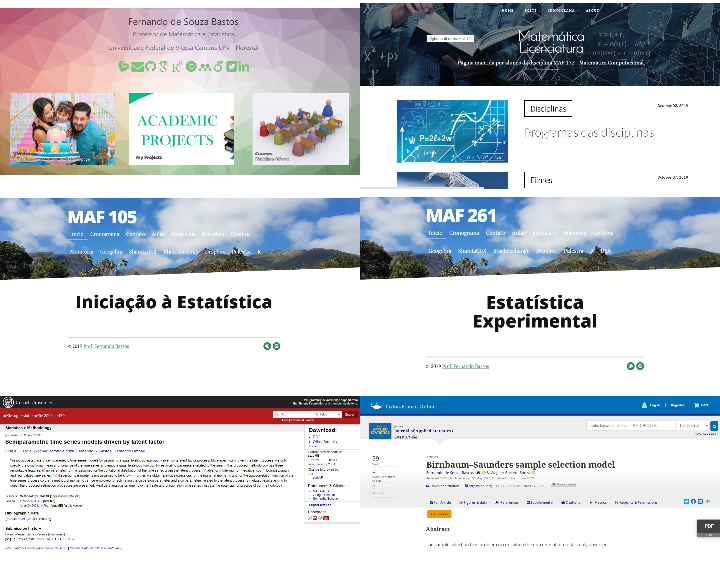
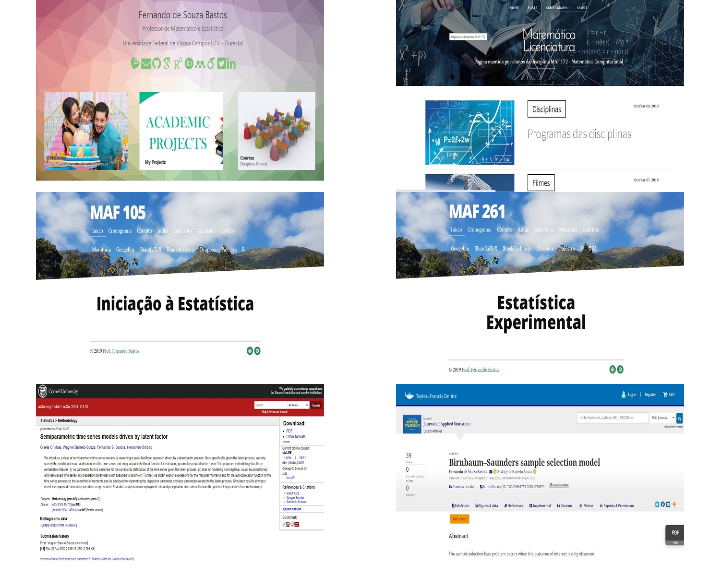
Dashboards

diff --git a/slides/ColTiradentes.html b/slides/ColTiradentes.html
@@ -236,7 +236,20 @@ Apesar de ser simples utilizar o R diretamente do seu console raiz, existe um co
 &lt;img src="figures/unnamed-chunk-14-1.png" width="80%" style="display: block; margin: auto;" /&gt;
 ---
 
+&lt;table&gt;
+&lt;tr&gt;&lt;td&gt;&lt;a href="https:fsbmat-ufv.github.io"&gt;&lt;img width="100%" src="https://raw.githack.com/fsbmat-ufv/ColegioTiradentes/master/img/PessoalPage.jpg"&gt;&lt;/a&gt;&lt;/td&gt;
+    &lt;td&gt;&lt;a href="https:maf172.github.io"&gt;&lt;img width="100%" src="https://raw.githack.com/fsbmat-ufv/ColegioTiradentes/master/img/maf172.jpg"&gt;&lt;/a&gt;&lt;/td&gt;
+&lt;/tr&gt;
 
+&lt;tr&gt;&lt;td&gt;&lt;a href="https:maf105.github.io"&gt;&lt;img width="100%" src="https://raw.githack.com/fsbmat-ufv/ColegioTiradentes/master/img/maf105.jpg"&gt;&lt;/a&gt;&lt;/td&gt;
+    &lt;td&gt;&lt;a href="https:maf261.github.io"&gt;&lt;img width="100%" src="https://raw.githack.com/fsbmat-ufv/ColegioTiradentes/master/img/maf261.jpg"&gt;&lt;/a&gt;&lt;/td&gt;
+&lt;/tr&gt;
+
+&lt;tr&gt;&lt;td&gt;&lt;a href="https://arxiv.org/abs/2004.11470"&gt;&lt;img width="100%" src="https://raw.githack.com/fsbmat-ufv/ColegioTiradentes/master/img/artigo1.jpg"&gt;&lt;/a&gt;&lt;/td&gt;
+    &lt;td&gt;&lt;a href="https://www.tandfonline.com/doi/abs/10.1080/02664763.2020.1780570?journalCode=cjas20"&gt;&lt;img width="100%" src="https://raw.githack.com/fsbmat-ufv/ColegioTiradentes/master/img/artigo2.jpg"&gt;&lt;/a&gt;&lt;/td&gt;
+&lt;/tr&gt;
+&lt;/table&gt;
+---
 
 # Como a ciência funciona
 
